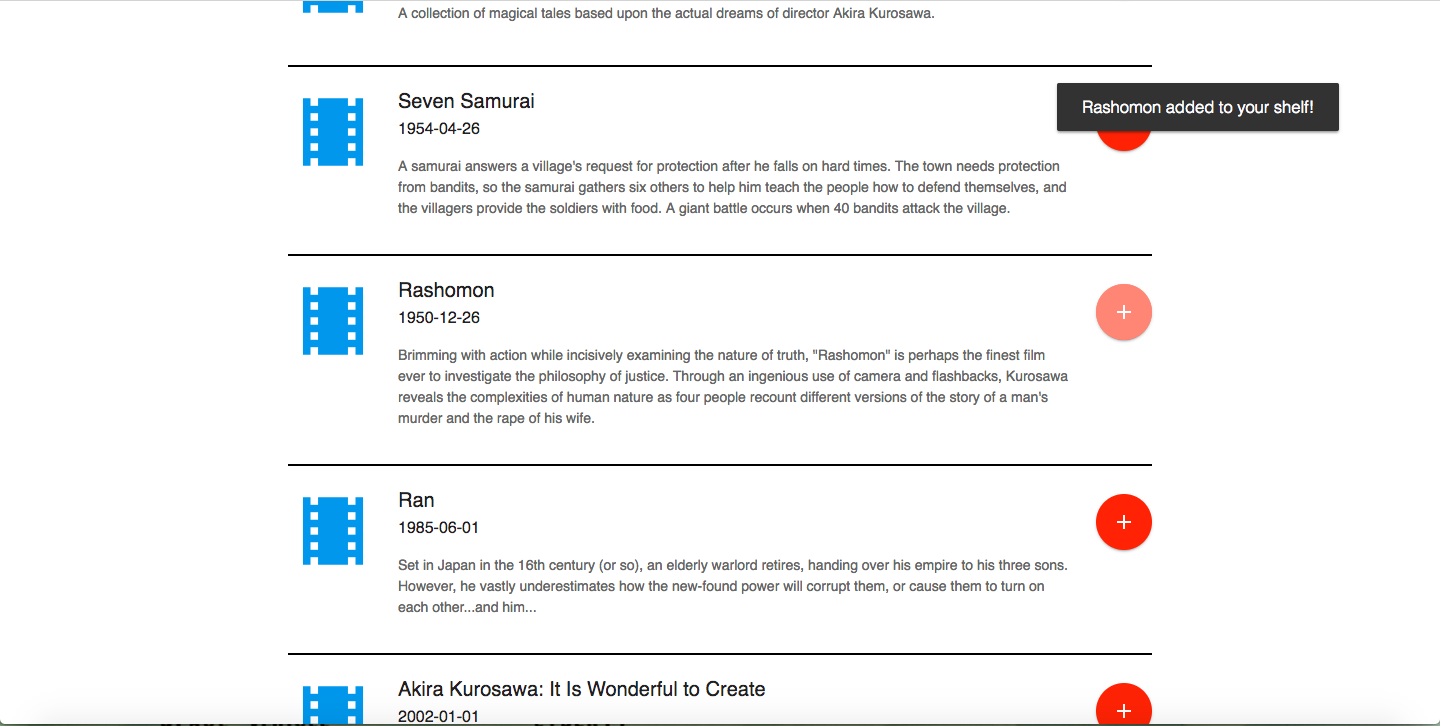
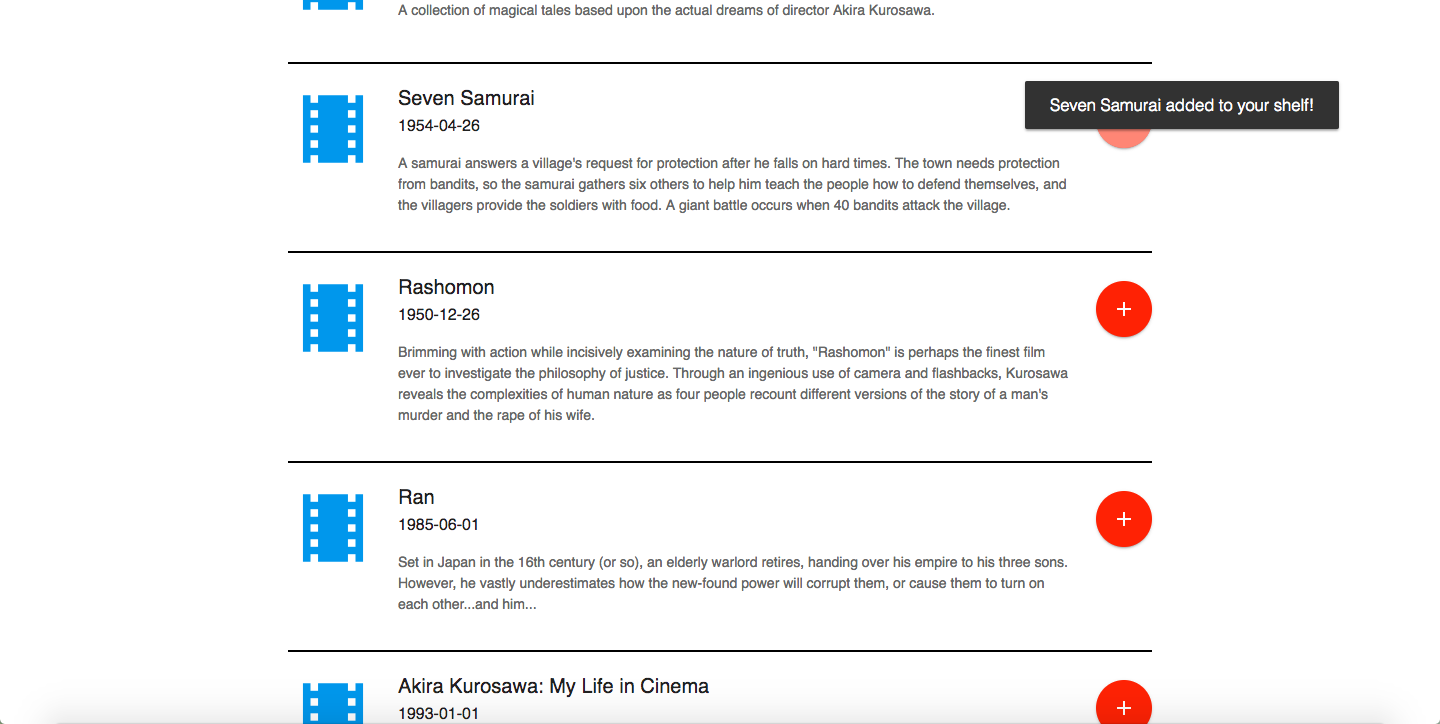
edits to readme

diff --git a/README.md b/README.md
@@ -15,7 +15,7 @@ Use the search bar in the upper right to find the media you're looking for. You 
 
 Click on the film or TV symbol to the left of search results for more information about that movie or show.
 
-![screenshot of media modal](docs/rashomoncard.png)
+![screenshot of media modal](docs/sevensamuraicard.png)
 
 
 ### Adding Media
